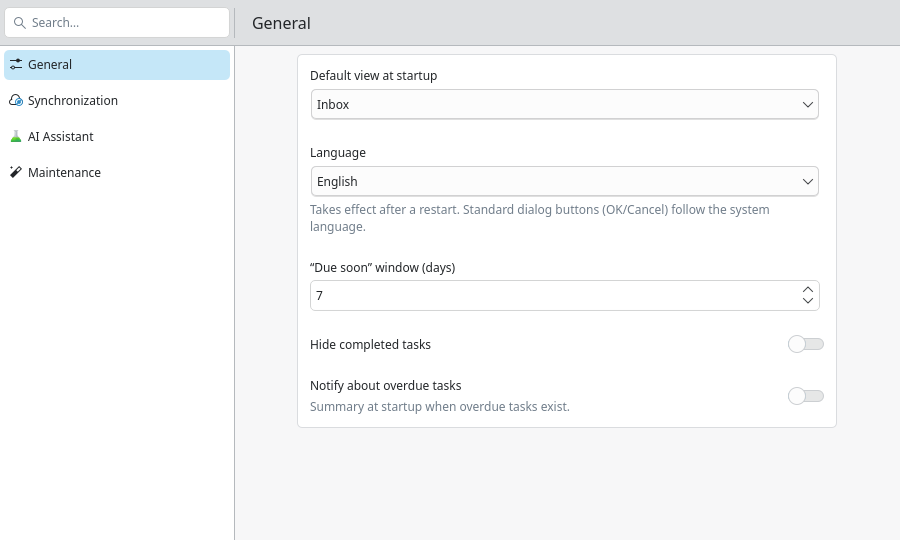
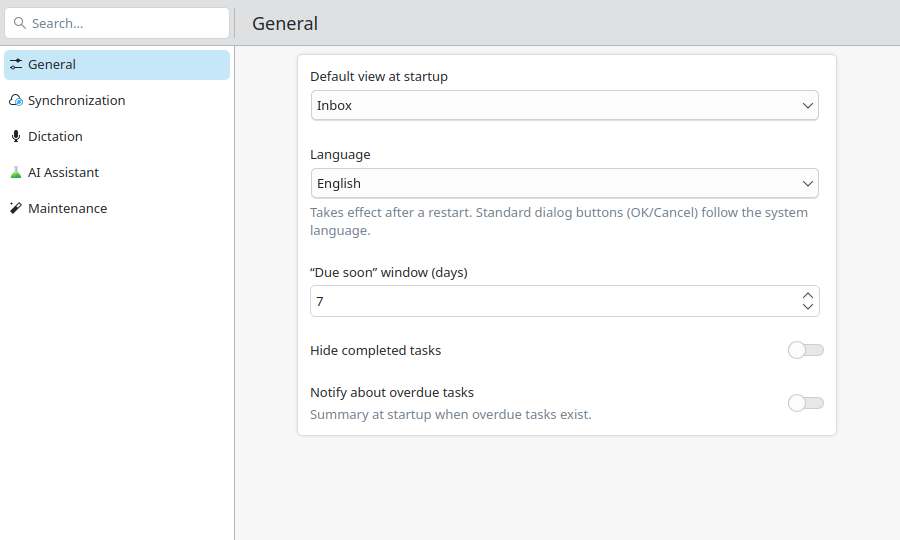
Refresh the settings overview screenshot and stale doc numbers (#47)
Review follow-up: settings.png still showed the four-category sidebar
from #30 while both READMEs now describe five; regrabbed with the seeded
demo dataset and English locale. docs/building.md also kept two stale
numbers — the flow check count (now 189, as measured) and the model
count quoted from settings-ai.png (now 15, mirroring the local Ollama).

diff --git a/docs/building.md b/docs/building.md
@@ -72,7 +72,7 @@ Service — `--test-secrets` and `--test-settings-ui` intentionally exercise
 the live KWallet/Secret Service and restore the previous entries afterwards.
 
 ```sh
-# Scripted smoke test through the real QML→bridge chain (187 checks; parts
+# Scripted smoke test through the real QML→bridge chain (189 checks; parts
 # whose prerequisites are missing — Secret Service, dictation chain — skip
 # with a FLOW-INFO line and reduce the count).
 # Use a disposable data dir — it mutates the replica!
@@ -179,8 +179,8 @@ since #47) is grabbed the same way with
 `--test-dialog=settings-dictation --test-grab=docs/screenshots/settings-dictation.png`.
 
 One caveat for the AI page: the committed `settings-ai.png` shows a green
-reachability line ("Backend reachable — 1 model found."), and that line does
-need a reachable backend. The demo config is enough for `aiConfigured` and
+reachability line ("Backend reachable — 15 models found."; the count simply
+mirrors the local Ollama), and that line does need a reachable backend. The demo config is enough for `aiConfigured` and
 therefore for the controls to appear, but on a machine without a local Ollama
 the same recipe produces a screenshot with the unreachable state instead.
 Start Ollama before grabbing that particular dialog, or expect the difference.
